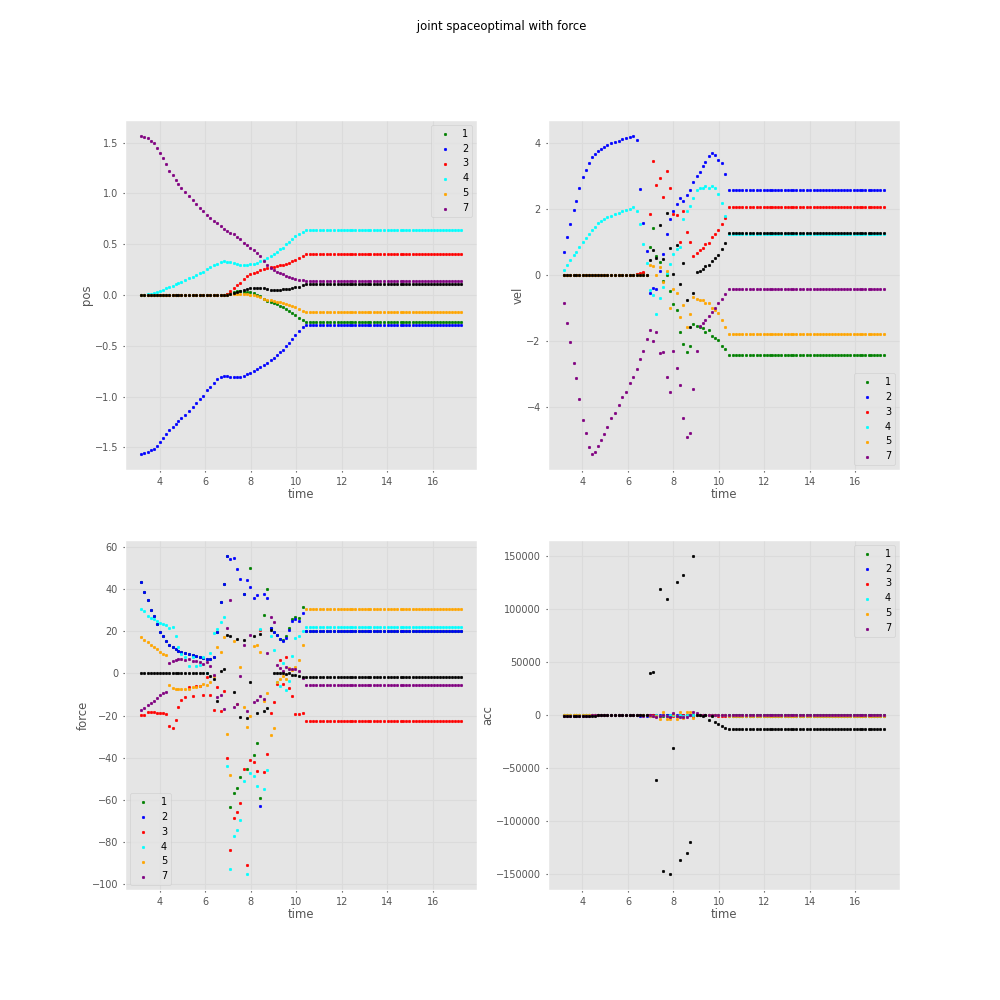
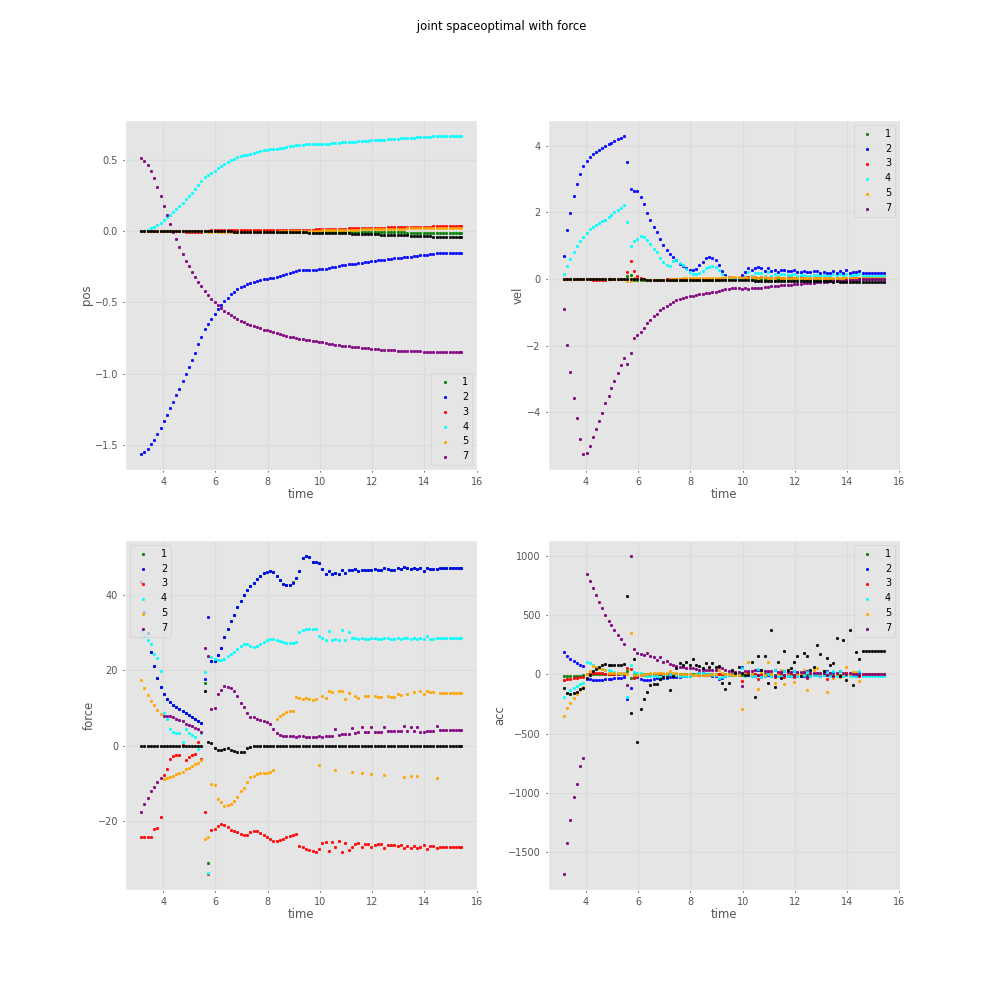
fixing one by one

diff --git a/run_controller.py b/run_controller.py
@@ -13,8 +13,12 @@ def generate_save_plt(x, y_array, y_labels, time1, time2, title, legend, additio
     # Plot each set of data in the corresponding subplot
 
     for y, ax, lb in zip(y_array, plts, y_labels):
-        for i in range(y.shape[1]):
-            ax.scatter(x, y[:, i], color=colors[i % len(colors)], s=3)
+        print(y)
+        if y.ndim == 2:
+            for i in range(y.shape[1]):
+                ax.scatter(x, y[:, i], color=colors[i % len(colors)], s=3)
+        else:
+            ax.scatter(x, y, s=3)
         ax.set_xlabel("time")
         ax.set_ylabel(lb)
     for ax in axs.flat:
@@ -22,8 +26,11 @@ def generate_save_plt(x, y_array, y_labels, time1, time2, title, legend, additio
 
     if additional is not None:
         for y, idx in zip(additional, range(len(additional))):
-            for j in range(y.shape[1]):
-                plts[idx].scatter(x, y[:, j],marker="o", color=colors[j % len(colors)], s=3)
+            if y.ndim == 2:
+                for j in range(y.shape[1]):
+                    plts[idx].scatter(x, y[:, j],marker="o", color=colors[j % len(colors)], s=3)
+            else:
+                plts[idx].scatter(x, y,marker="o", s=3)
 
     fig.suptitle(title)
     plt.savefig(f'./plot_results/{title}.png')
@@ -69,6 +76,19 @@ if __name__ == '__main__':
     ee_des_vel = np.asarray(mpc.ee_des_vel)      
     sensor_wrench = np.asarray(mpc.sensor_wrench)
 
+    opt_u = np.asarray(mpc.opt_u)
+    opt_cost = np.asarray(mpc.opt_cost)
+    force_cost = np.asarray(mpc.force_cost)
+    x_cost = np.asarray(mpc.x_cost)
+    opt_x_ref = np.asarray(mpc.opt_x_ref)
+    opt_f_ref = np.asarray(mpc.opt_f_ref)
+    opt_error_f = np.asarray(mpc.opt_error_f)
+    opt_error_x = np.asarray(mpc.opt_error_x)
+    opt_x = np.asarray(mpc.opt_x)
+    opt_f = np.asarray(mpc.opt_f)
+
+
+
     controller = "optimal with force"
 
     # To do
@@ -83,3 +103,11 @@ if __name__ == '__main__':
     generate_save_plt(time_sim, [joint_curr_pos,joint_curr_vel,joint_curr_torque,joint_curr_acc], 
                       ["pos", "vel", "force", "acc"], 
                       time_sim[0], time_sim[-1], " joint space"+ controller,["1","2","3","4","5","7"], None)
+    generate_save_plt(time_sim, [opt_cost,force_cost,x_cost,opt_u], 
+                      ["total cost", "force", "x", "u"], 
+                      time_sim[0], time_sim[-1], "cost"+ controller,["- "], None)
+
+
+    generate_save_plt(time_sim, [opt_error_f, opt_error_x, opt_f, opt_x], 
+                    ["force_er", "x_er", "f", "x"], 
+                    time_sim[0], time_sim[-1], "f, x values and error"+ controller,["- "], [opt_f_ref, opt_x_ref])

diff --git a/mpc_controller.py b/mpc_controller.py
@@ -22,9 +22,15 @@ class MPC:
         self.P = np.eye(3)*100
         self.F = np.eye(3)*.1
         self.G = np.eye(3)*1
+        self.H = np.eye(3)*.1
+
         self.P = self.P.T @ self.P
         self.G = self.G.T @self.G
         self.F = self.F.T @self.F
+        self.H = self.H.T @self.H
+
+        self.prev_u = np.zeros(3)
+
     
 
     def initialize_storage(self):
@@ -50,13 +56,13 @@ class MPC:
         constr = []   
         x0 = robot.get_ee_position()
         v0 = robot.get_ee_vel()
-        print("wrench", wrench)
+        # print("wrench", wrench)
         for t in range(self.T_opt):
-            cost += cp.quad_form(x[:, t + 1] -x_ref, self.P) + cp.quad_form(f[:, t + 1] -f_ref, self.F) + cp.quad_form(u[:, t] , self.G)
+            cost += cp.quad_form(x[:, t + 1] -x_ref, self.P) + cp.quad_form(f[:, t + 1] -f_ref, self.F) + cp.quad_form(u[:, t] , self.G) + cp.quad_form(u[:, t] -self.prev_u, self.H)
             constr += [x[:, t + 1] == np.dot(self.Ax, x0 )+ self.Bx @ (u[:, t])]
             constr += [f[:, t + 1] == self.Bf @ (u[:, t]- v0)]
-            constr += [u[:,t] <= np.ones(3)*(10)]
-            constr += [u[:,t] >= np.ones(3)*(-10)]
+            constr += [u[:,t] <= np.ones(3)*(3)]
+            constr += [u[:,t] >= np.ones(3)*(-3)]
         problem = cp.Problem(cp.Minimize(cost), constr)
         # print(x0)
         # print(target_pos)
@@ -69,8 +75,9 @@ class MPC:
         self.opt_f_ref.append(f_ref)
         self.opt_error_f.append(f[:, 0].value -f_ref)
         self.opt_error_x.append(x[:, 0].value -x_ref)
-        self.opt_x.append(x[:,0])
-        self.opt_f.append(f[:,0])
+        self.opt_x.append(x[:,0].value)
+        self.opt_f.append(f[:,0].value)
+        self.prev_u = u[:,0].value 
         return u[:,0].value 
 
 
@@ -105,11 +112,13 @@ class MPC:
         desired_ee_vel = np.asarray(desired_ee_vel)[0:3]
         curr_end_eff_position = robot.get_ee_position()
         robot_ee_pose = [.14,0,.5]
+        # print(curr_end_eff_position)
         desired_ee_position = curr_end_eff_position + desired_ee_vel * self.dt_opt#*(time.time()-start_time)
         wrench = robot.get_ee_wrench()
         force = np.asarray(wrench[0:3])
         next_ee_vel[0:3] = self.get_optimal_vel(force, robot, desired_ee_position, desired_ee_vel)
         q_curr = robot.get_joint_positions()
+        
         target_dq = np.matmul(pnv_j, next_ee_vel)
         target_q = (q_curr+ target_dq)
         start_time = time.time()

diff --git a/robot.py b/robot.py
@@ -65,7 +65,7 @@ class RoboEnv(MuJoCoBase):
         return robot
 
     def reset_joints(self):
-        angles = [0, -np.pi/2, 0, 0, 0, np.pi/2, 0]
+        angles = [0, -np.pi/2, 0, 0, 0, np.pi/6, 0]
         for joint, ang in zip(self.joint_ids, angles):
             self.data.qpos[joint] = ang
         mujoco.mj_forward(self.model, self.data)
@@ -230,6 +230,7 @@ class RoboEnv(MuJoCoBase):
         glfw.poll_events()
 
     def run(self, control_input):
+        # control_input[5] = 0
         if self.stop_robot == False:
             self.data.ctrl[0:7] = control_input
             mujoco.mj_step(self.model, self.data)
